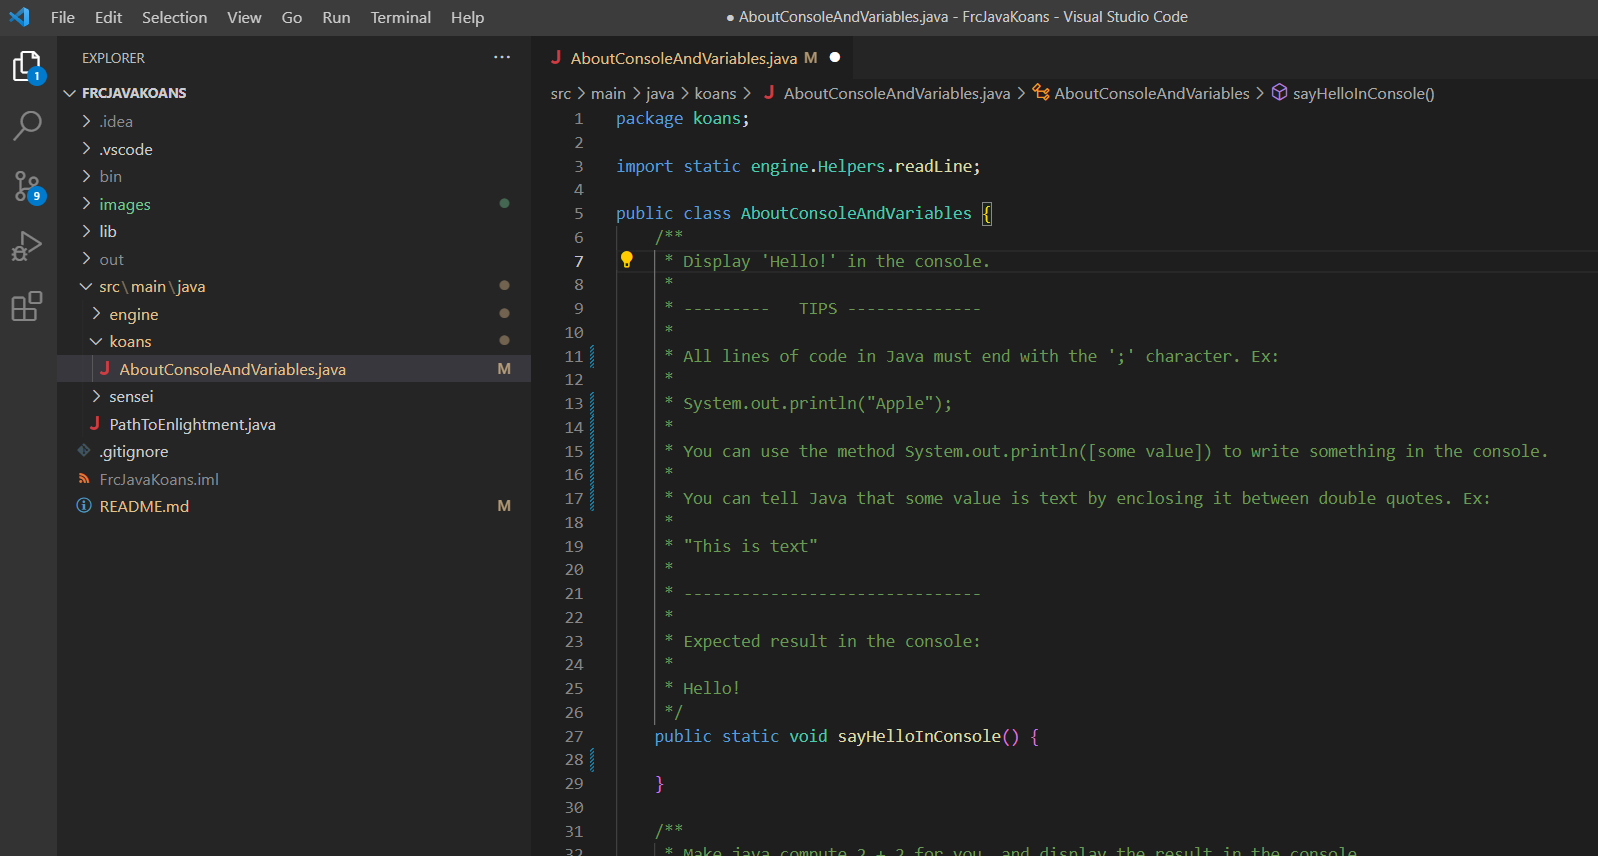
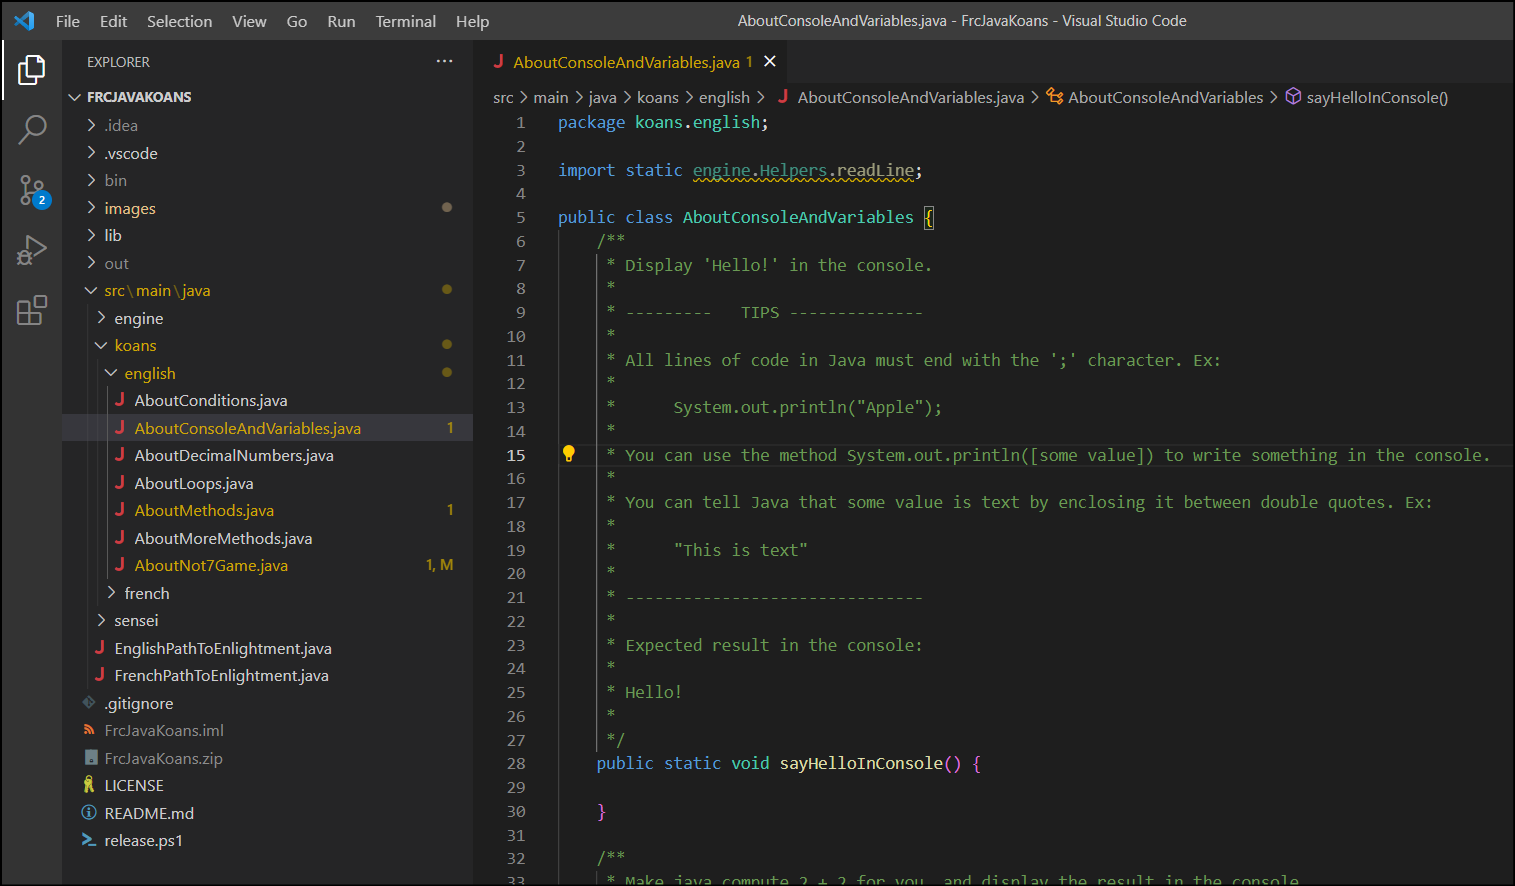
README updated with the console colors and the localized files

diff --git a/src/main/java/koans/english/AboutNot7Game.java b/src/main/java/koans/english/AboutNot7Game.java
@@ -1,8 +1,68 @@
 package koans.english;
 
-import static engine.Helpers.*;
+import static engine.Helpers.random;
 
 public class AboutNot7Game {
+    /**
+     * These koans are a bit special. You will gradually code everything necessary for a 2 players game called 'Not 7!'.
+     * 
+     * Each player has only one turn. On its turn, the player will throw 2 dice as many times as they wish.
+     * 
+     * However, if at any time the result for one throw is 7, the player loose immediately.
+     * 
+     * Otherwise, when the player decide to pass and not throw anymore, their score is the sum of all the dice results.
+     * 
+     * Here is a game example, in the console:
+     * 
+     * Player 1, it's your turn!
+     * 
+     * You threw 4 and 5. Your result so far: 9
+     * Do you want to throw again [y/n]? y
+     * You threw 3 and 1. Your result so far: 13
+     * Do you want to throw again [y/n]? y
+     * You threw 2 and 6. Your result so far: 21
+     * Do you want to throw again [y/n]? n
+     * 
+     * Well done, your score is 21!
+     * 
+     * Player 2, it's your turn!
+     * 
+     * You threw 2 and 3. Your result so far: 5
+     * Do you want to throw again [y/n]? y
+     * You threw 4 and 4. Your result so far: 13
+     * Do you want to throw again [y/n]? y
+     * You threw 2 and 1. Your result so far: 16
+     * Do you want to throw again [y/n]? y
+     * You threw 3 and 3. Your result so far: 22
+     * Do you want to throw again [y/n]? n
+     * 
+     * Well done, your score is 22!
+     * 
+     * Congratulations, player 2 wins!!!
+     * 
+     * 
+     * 
+     * Here is an other game example, where one unlucky player is throwing a 7:
+     * 
+     * Player 1, it's your turn!
+     * 
+     * You threw 3 and 2. Your result so far: 5
+     * Do you want to throw again [y/n]? y
+     * You threw 5 and 6. Your result so far: 16
+     * Do you want to throw again [y/n]? n
+     * 
+     * Well done, your score is 16!
+     * 
+     * Player 2, it's your turn!
+     * 
+     * You threw 2 and 3. Your result so far: 5
+     * Do you want to throw again [y/n]? y
+     * You threw 2 and 5. That's a 7, you loose!
+     * 
+     * Congratulations, player 1 wins!!!
+     */
+
+
     /**
      * Write a method 'die6()' returning the result of a 6-face die throw as an integer.
      * 

diff --git a/src/main/java/koans/english/AboutConsoleAndVariables.java b/src/main/java/koans/english/AboutConsoleAndVariables.java
@@ -26,7 +26,7 @@ public class AboutConsoleAndVariables {
      * 
      */
     public static void sayHelloInConsole() {
-        
+
     }
 
     /**

diff --git a/README.md b/README.md
@@ -39,23 +39,7 @@ Expand the `src` folder, then right click on the file `src\main\java\EnglishPath
 
 This will open what is called a _terminal_ at the bottom of the VS Code window and run the Java Koans for the FRC. Ignore all the cryptic text generated by VS Code for now and focus on this part:
 
-```
-Thinking AboutConsoleAndVariables ...
-AboutConsoleAndVariables.sayHelloInConsole has damaged your karma.
-
-The master says:
-  You have not yet reached enlightment ...
-
-Console:
----------
-
-
----------
-
-Expected to see 'Hello!' in the console, but read nothing instead
-
-Please meditate on sayHelloInConsole in src/main/java/koans/english/AboutConsoleAndVariables.java
-```
+![First result](images/result1.png)
 
 The master of the Java Koans is telling you a lot of things at once, so let's decompose a bit.
 
@@ -198,24 +182,9 @@ Perfect! So let's place the value within the previous command:
 
 Now that we think we completed the koan, let's ask the master what he thinks and see what happens. To run the koans, right-click on `EnglishPathToEnlightment.java` and choose `Run Java`. You should see this output:
 
-```
-Thinking AboutConsoleAndVariables ...
-AboutConsoleAndVariables.sayHelloInConsole has damaged your karma.
 
-The master says:
-  You have not yet reached enlightment ...
+![Second result](images/result2.png)
 
-Console:
----------
-
-Hello
-
----------
-
-Expected to see 'Hello!' in the console, but read 'Hello' instead
-
-Please meditate on sayHelloInConsole in src/main/java/koans/english/AboutConsoleAndVariables.java
-```
 
 Oops, we made a mistake! The master was expecting us to display _Hello!_, but we forgot the exclamation mark. Let's fix it in `src/main/java/koans/english/AboutConsoleAndVariables.java`:
 
@@ -227,25 +196,11 @@ Oops, we made a mistake! The master was expecting us to display _Hello!_, but we
 
 And run the koans again:
 
-```
-Thinking AboutConsoleAndVariables ...
-AboutConsoleAndVariables.computeTwoAndTwo has damaged your karma.
 
-The master says:
-  You have not yet reached enlightment ...
-
-Console:
----------
+![Third result](images/result3.png)
 
 
----------
-
-Expected to see '4' in the console, but read nothing instead
-
-Please meditate on computeTwoAndTwo in src/main/java/koans/english/AboutConsoleAndVariables.java
-```
-
-That's a completely different message! This is because we successfully completed the first koan! So our master is telling us about the next koan.
+That's a completely different message! This is because we successfully completed the first koan! So our master is telling us about our progress and about the next koan.
 
 Congratulations, you completed your first koan! You can now look at the next koan in the `src/main/java/koans/english/AboutConsoleAndVariables.java` and try to figure out how to complete the next koan!
 
